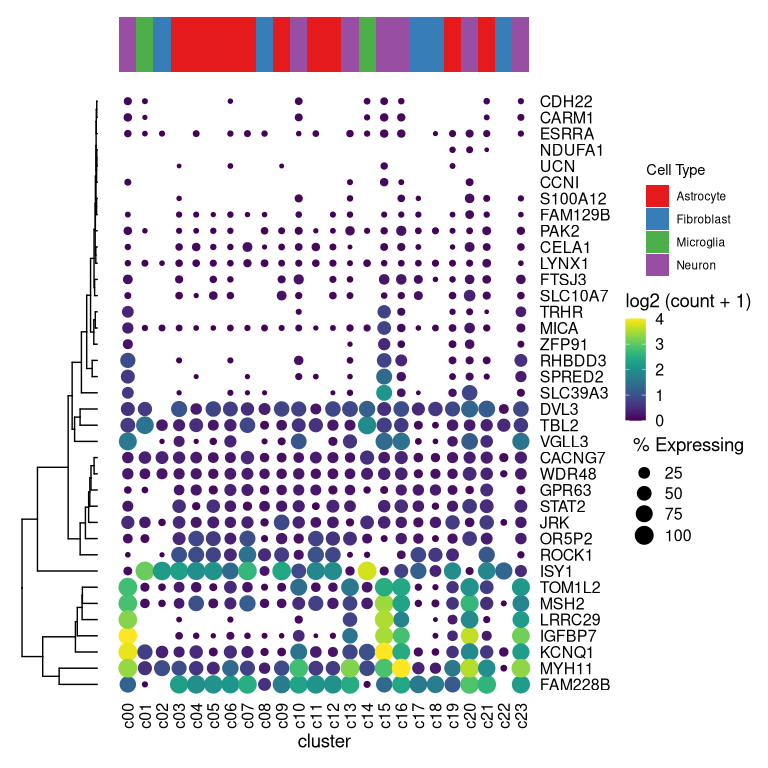
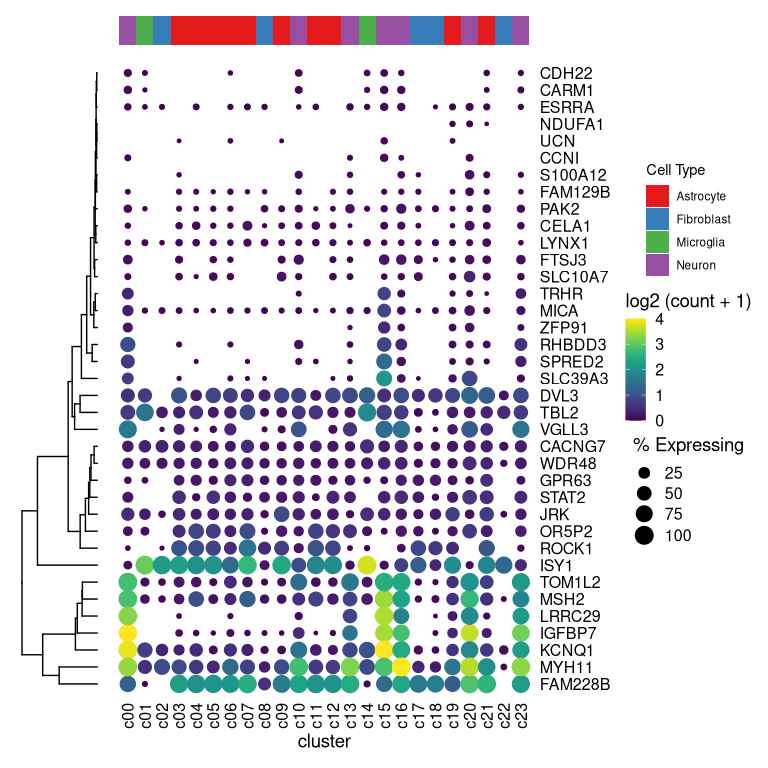
clean up code and rerun readme

diff --git a/README.md b/README.md
@@ -68,7 +68,7 @@ dot_plot
 ## the rows of the dot_plot was automatically reorder based on the tree
 p2 <- dot_plot %>% 
   insert_left(ggtree_plot, width=.2) %>%
-  insert_top(labels, height=.1) 
+  insert_top(labels, height=.05) 
 p2
 ```
 
